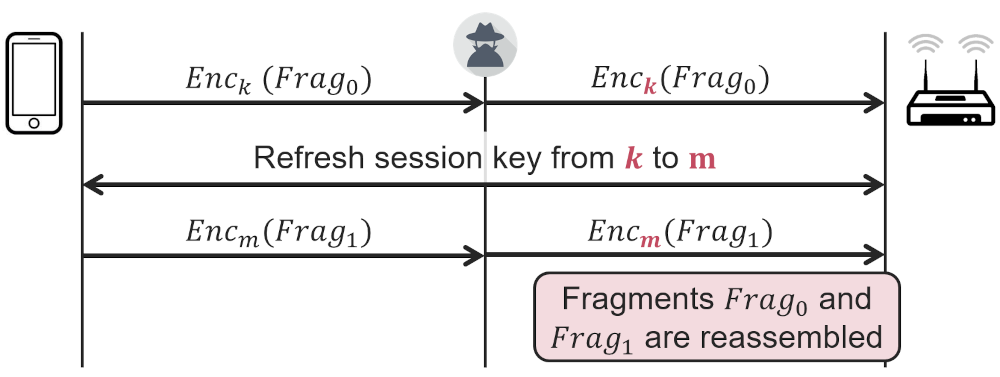
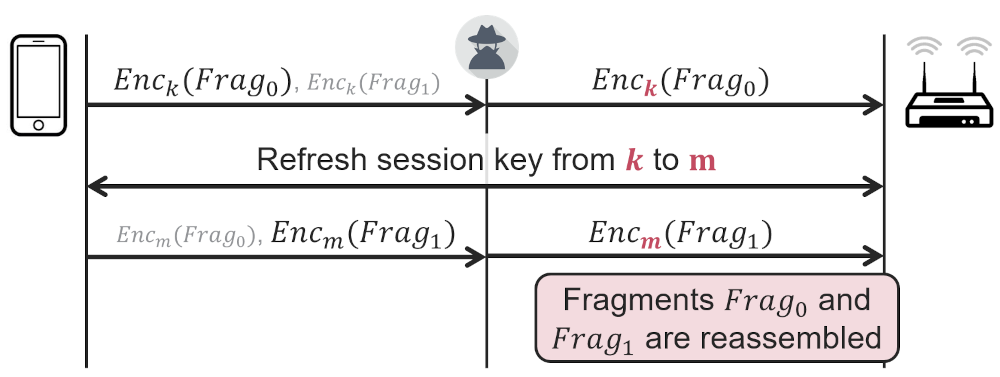
improved mix key illustration

Changed region(s): [[0.0, 0.0292, 1.0, 0.9629], [0.899, 0.0875, 0.992, 0.1459]]

diff --git a/index.html b/index.html
@@ -235,9 +235,9 @@
 		<div id="mixedkey" class="diagram" ></div>
 
 		<p>
-		In the above figure, the first fragment is decrypted using a different key than the second fragment.
-		Nevertheless, the victim will reassemble both fragments. In practice this allows an adversary to exfiltrate selected
-		client data.
+		In the above figure, the first fragment received by the access point is decrypted using a different key
+		than the second fragment. Nevertheless, the victim will reassemble both fragments. In practice this allows
+		an adversary to exfiltrate selected client data.
 		</p>
 
 		<p>

diff --git a/css/default.css b/css/default.css
@@ -385,8 +385,8 @@ pre {
     #mixedkey {
         background-image: url(../images/mixedkeysmall.png);
         height: 0;
-        padding-top: 90.32%; /* (img-height / img-width * widthpercentage) */
-                             /* (       560 /       620 *             100) */
+        padding-top: 92.74%; /* (img-height / img-width * widthpercentage) */
+                             /* (       575 /       620 *             100) */
     }
     #fragmentcache {
         background-image: url(../images/fragmentcachesmall.png);
